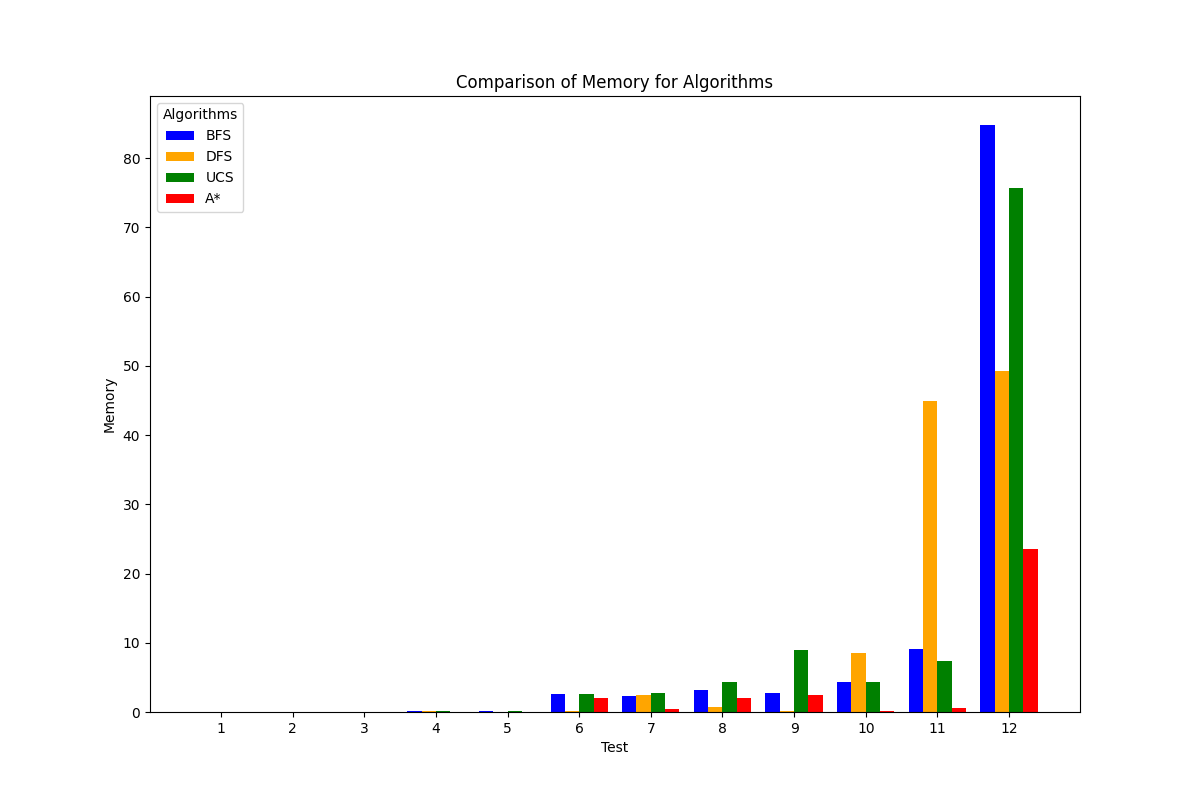
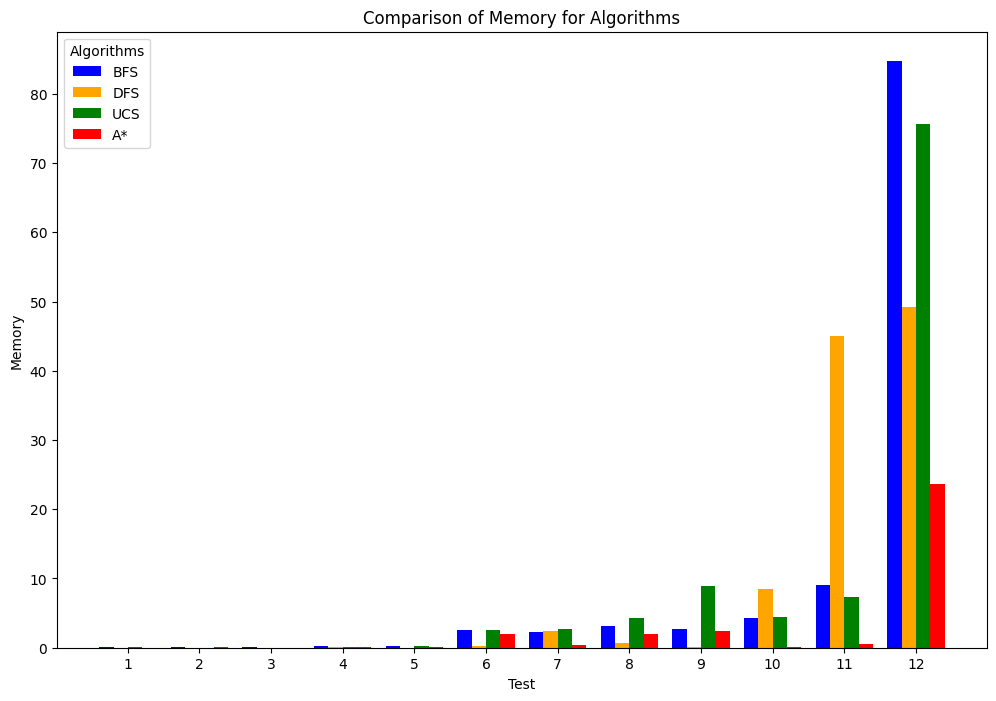
update stat

diff --git a/manager/statistics.py b/manager/statistics.py
@@ -63,7 +63,7 @@ def plot_comparison(test_files):
         # Lưu biểu đồ vào thư mục manager/
         if not os.path.exists('manager'):
             os.makedirs('manager')
-        plt.savefig(f'manager/{metric.lower()}_comparison.png')
+        plt.savefig(f'manager/{metric.lower().replace(" ", "_")}_comparison.png', bbox_inches='tight', pad_inches=0.1)
         plt.close()
 
 # Tạo danh sách các file output từ output-01.txt đến output-12.txt
